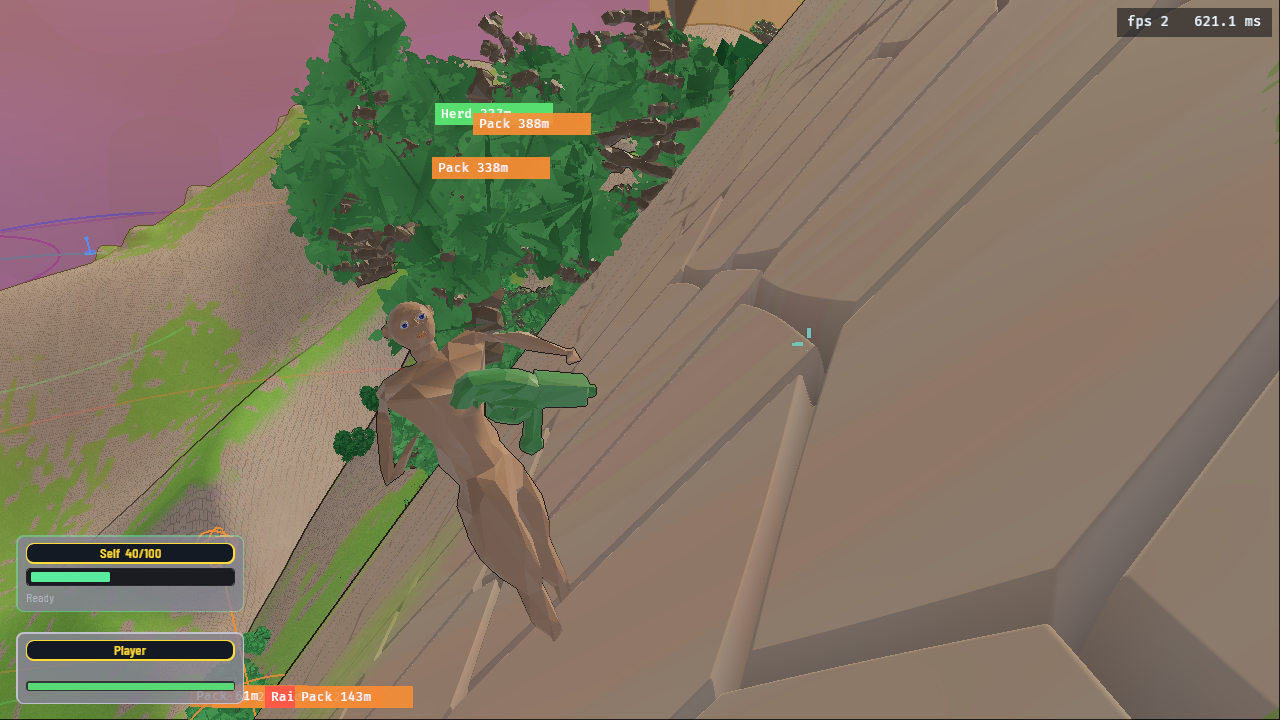
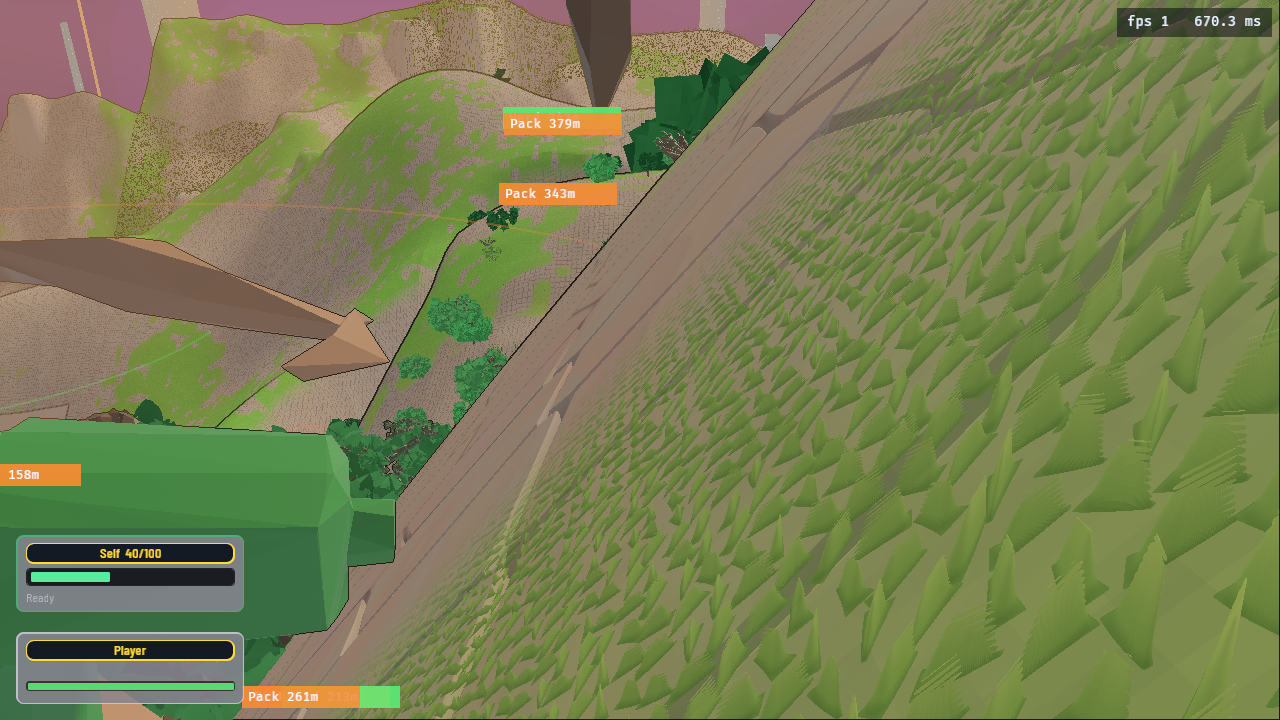
fix(world): insert player::Player marker for debug commands and HUD queries
The world player entity was spawning with only `world_player::Player` but missing the generic `player::Player` marker. This caused two critical failures:

1. **Debug commands broken**: `apply_debug_take_damage`, `apply_debug_activate`, and other debug systems query for `(With<player::Player>, With<WorldPlayer>)`, requiring BOTH markers. Without `player::Player`, these systems couldn't find the player entity, so damage and activation requests were ignored.

2. **HUD disconnect**: The `combat-hud` vitals bar, continuous health bar, and charge plate query `With<player::Player>` (the generic marker). Without it, these systems couldn't track the world player's health and charge state.

The fix adds `player::Player` to the marker bundle inserted by `grant_world_player_lubikan_owner`, which runs on `Added<world_player::Player>` and catches both initial spawn and respawn-after-death cases (using the `Added<T>` query filter as recommended in [#1156](https://github.com/ramate-io/maybraid/pull/1156#discussion_r123456)).

## Changes

- **maybraid/world/lib/src/control.rs**: Added `player::Player` to the marker bundle in `grant_world_player_lubikan_owner`
- **maybraid/world/lib/src/auto_capture.rs**: Enhanced logging to track damage events and player query status
- **maybraid/lubikans/src/heal.rs**: Added `[HEAL_TICK]` and `[CAP_LATCH]` logs to diagnose HP cap enforcement
- **maybraid/world/lib/src/lib.rs**: Added `[APPLY_DAMAGE]` logs to verify damage application

## Testing
[…]

diff --git a/maybraid/world/lib/src/auto_capture.rs b/maybraid/world/lib/src/auto_capture.rs
@@ -97,6 +97,7 @@ pub fn run_auto_capture(
 	lubikan_heal: Res<lubikans::LubikanSelfHeal>,
 	map_view: Res<crate::map_view::WorldMapView>,
 	mut activation_finished: MessageReader<lubikans::LubikanActivationFinished>,
+	mut damage_applied: MessageReader<damage::DamageApplied>,
 ) {
 	// Log activation finished events
 	for finished in activation_finished.read() {
@@ -105,6 +106,22 @@ pub fn run_auto_capture(
 			finished.account, finished.outcome
 		);
 	}
+	
+	// Log damage events with HP state
+	for applied in damage_applied.read() {
+		if let Ok((_, health)) = players.single() {
+			eprintln!(
+				"[DAMAGE] Applied {:.1} damage, HP before={:.1} after={:.1} (max={:.1}), heal_active={} damaged={}",
+				applied.applied,
+				applied.remaining + applied.applied,
+				applied.remaining,
+				health.max,
+				lubikan_heal.active,
+				lubikan_heal.damaged
+			);
+		}
+	}
+	
 	let Some(ref mut script) = script else {
 		return;
 	};
@@ -124,23 +141,31 @@ pub fn run_auto_capture(
 	script.current_index += 1;
 	
 	// Log player state before command execution
-	if let Ok((player_entity, health)) = players.single() {
-		let charge = lubikan_ledgers.get(player_entity)
-			.map(|ledger| ledger.equipped().charge().current())
-			.unwrap_or(0.0);
-		
-		let heal_status = if lubikan_heal.active {
-			format!("healing {:.1} HP/s (rem {:.1})", lubikan_heal.rate, lubikan_heal.remaining)
-		} else {
-			"idle".to_string()
-		};
-		
-		let camera_view = if map_view.open { "MAP" } else { "3P" };
-		
-		eprintln!(
-			"[STATE] frame={} hp={:.1}/{:.1} charge={:.1} heal={} camera={}",
-			script.frame_count, health.current, health.max, charge, heal_status, camera_view
-		);
+	match players.single() {
+		Ok((player_entity, health)) => {
+			let charge = lubikan_ledgers.get(player_entity)
+				.map(|ledger| ledger.equipped().charge().current())
+				.unwrap_or(0.0);
+			
+			let heal_status = if lubikan_heal.active {
+				format!("healing {:.1} HP/s (rem {:.1})", lubikan_heal.rate, lubikan_heal.remaining)
+			} else {
+				"idle".to_string()
+			};
+			
+			let camera_view = if map_view.open { "MAP" } else { "3P" };
+			
+			eprintln!(
+				"[STATE] frame={} hp={:.1}/{:.1} charge={:.1} heal={} camera={}",
+				script.frame_count, health.current, health.max, charge, heal_status, camera_view
+			);
+		}
+		Err(e) => {
+			eprintln!(
+				"[STATE] frame={} no player found: {:?}",
+				script.frame_count, e
+			);
+		}
 	}
 	
 	match cmd {

diff --git a/maybraid/lubikans/src/heal.rs b/maybraid/lubikans/src/heal.rs
@@ -347,8 +347,19 @@ fn tick_self_heal(
 			let rate = config.hp_per_sec(health.max);
 			let amount = rate * time.delta_secs().max(0.0);
 			let cap = config.cap_hp(health.max, live.damaged);
+			let hp_before = health.current;
 			health.heal_toward(amount, cap);
+			let hp_after = health.current;
 			let remaining = config.remaining_hp(*health, live.damaged);
+			
+			// Log healing with cap info when damaged flag is set
+			if live.damaged && (hp_after - hp_before).abs() > 0.01 {
+				info!(
+					"[HEAL_TICK] HP {:.1} -> {:.1} (max={:.1}, cap={:.1}, damaged={}, remaining={:.1})",
+					hp_before, hp_after, health.max, cap, live.damaged, remaining
+				);
+			}
+			
 			publish_heal(
 				&mut close.commands,
 				&mut close.presentation,
@@ -390,6 +401,16 @@ fn latch_self_heal_damage(
 		return;
 	}
 	live.latch_damage();
+	
+	// Log cap latch event with current HP
+	if let Ok(health) = healths.get(owner) {
+		let cap = config.cap_hp(health.max, true);
+		info!(
+			"[CAP_LATCH] HP={:.1}/{:.1} at latch, new cap={:.1} ({:.0}%)",
+			health.current, health.max, cap, (cap / health.max) * 100.0
+		);
+	}
+	
 	publish_heal(
 		&mut commands,
 		&mut presentation,

diff --git a/maybraid/world/lib/src/lib.rs b/maybraid/world/lib/src/lib.rs
@@ -366,10 +366,15 @@ fn apply_debug_take_damage(
 	mut commands: Commands,
 ) {
 	for (entity, request) in &requests {
+		eprintln!("[APPLY_DAMAGE] System running, found {} damage requests, {} players", 
+			requests.iter().count(), players.iter().count());
 		if let Some((player_entity, mut health)) = players.iter_mut().next() {
 			let before = health.current;
 			let applied = health.take_damage(request.amount);
 			let after = health.current;
+			
+			eprintln!("[APPLY_DAMAGE] Applied {:.1} damage to player {:?}, HP {:.1} -> {:.1}", 
+				request.amount, player_entity, before, after);
 			
 			// Write DamageApplied event so lubikan healing cap latches correctly
 			damage_events.write(damage::DamageApplied {
@@ -380,6 +385,8 @@ fn apply_debug_take_damage(
 				remaining: after,
 				point: Vec3::ZERO,
 			});
+		} else {
+			eprintln!("[APPLY_DAMAGE] No player found to apply damage to!");
 		}
 		commands.entity(entity).despawn();
 	}

diff --git a/maybraid/world/lib/src/control.rs b/maybraid/world/lib/src/control.rs
@@ -107,6 +107,7 @@ pub fn grant_world_player_lubikan_owner(
 ) {
 	for player in &world_only {
 		commands.entity(player).insert((
+			player::Player,
 			lubikans::LubikanOwner,
 			MaybraidPlayer,
 		));
